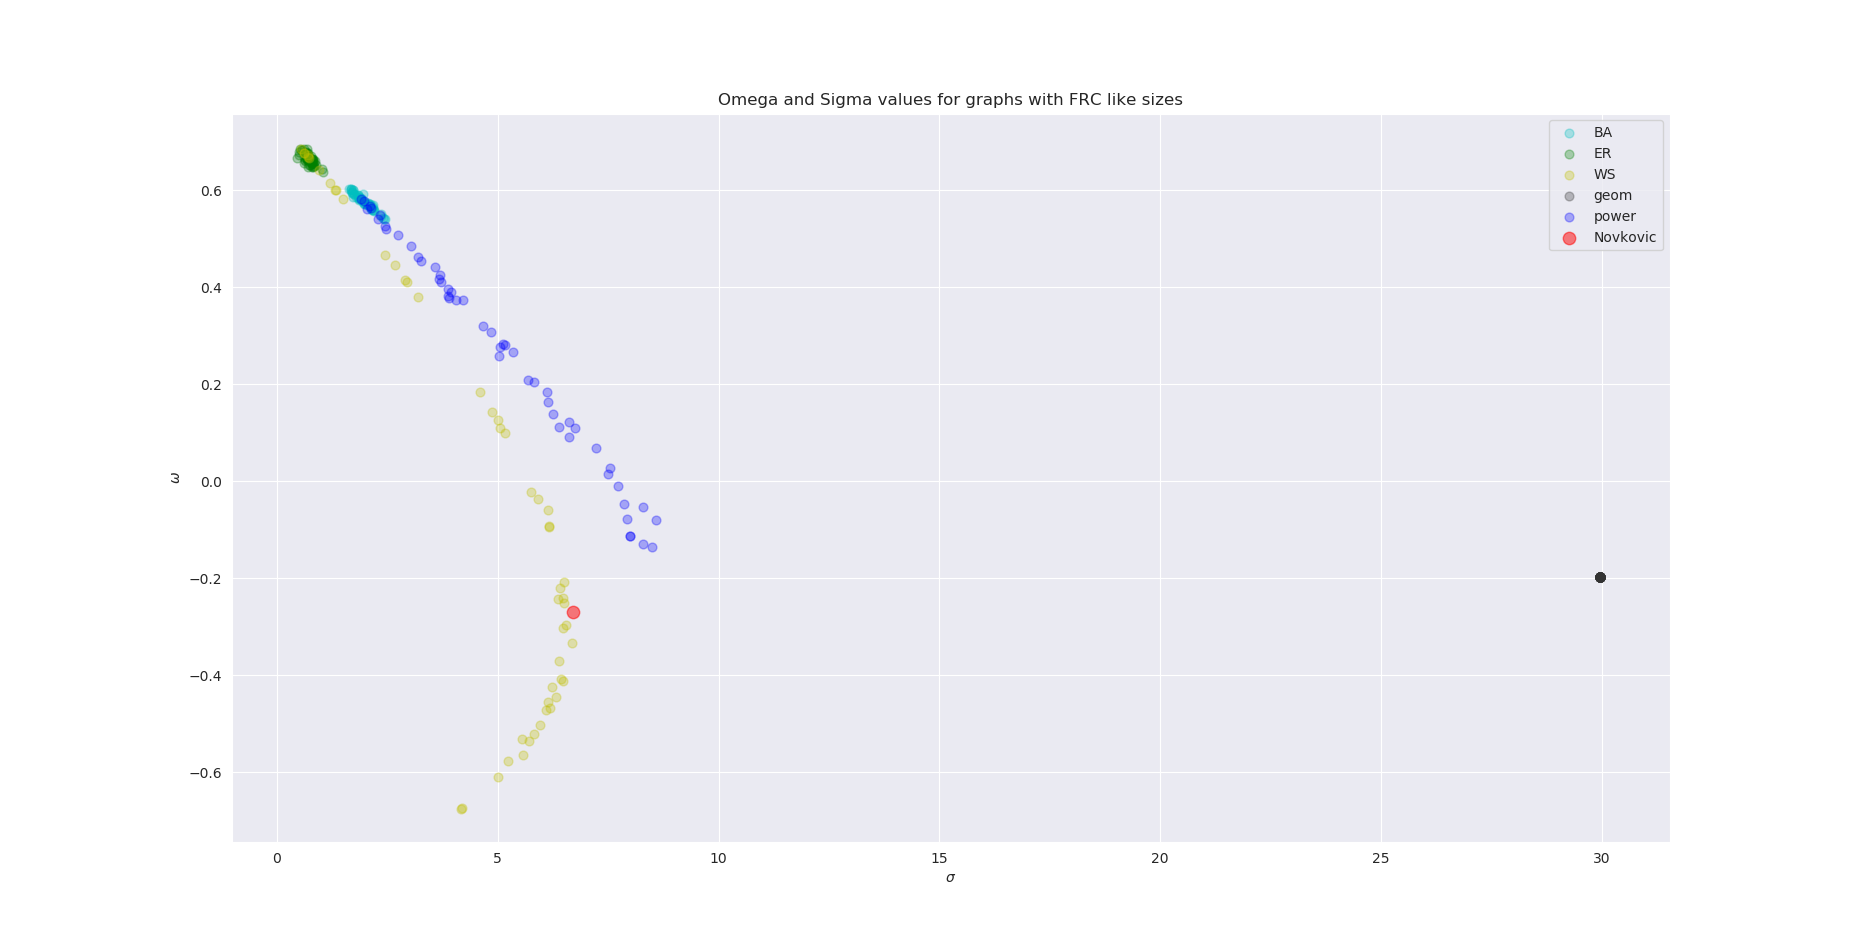
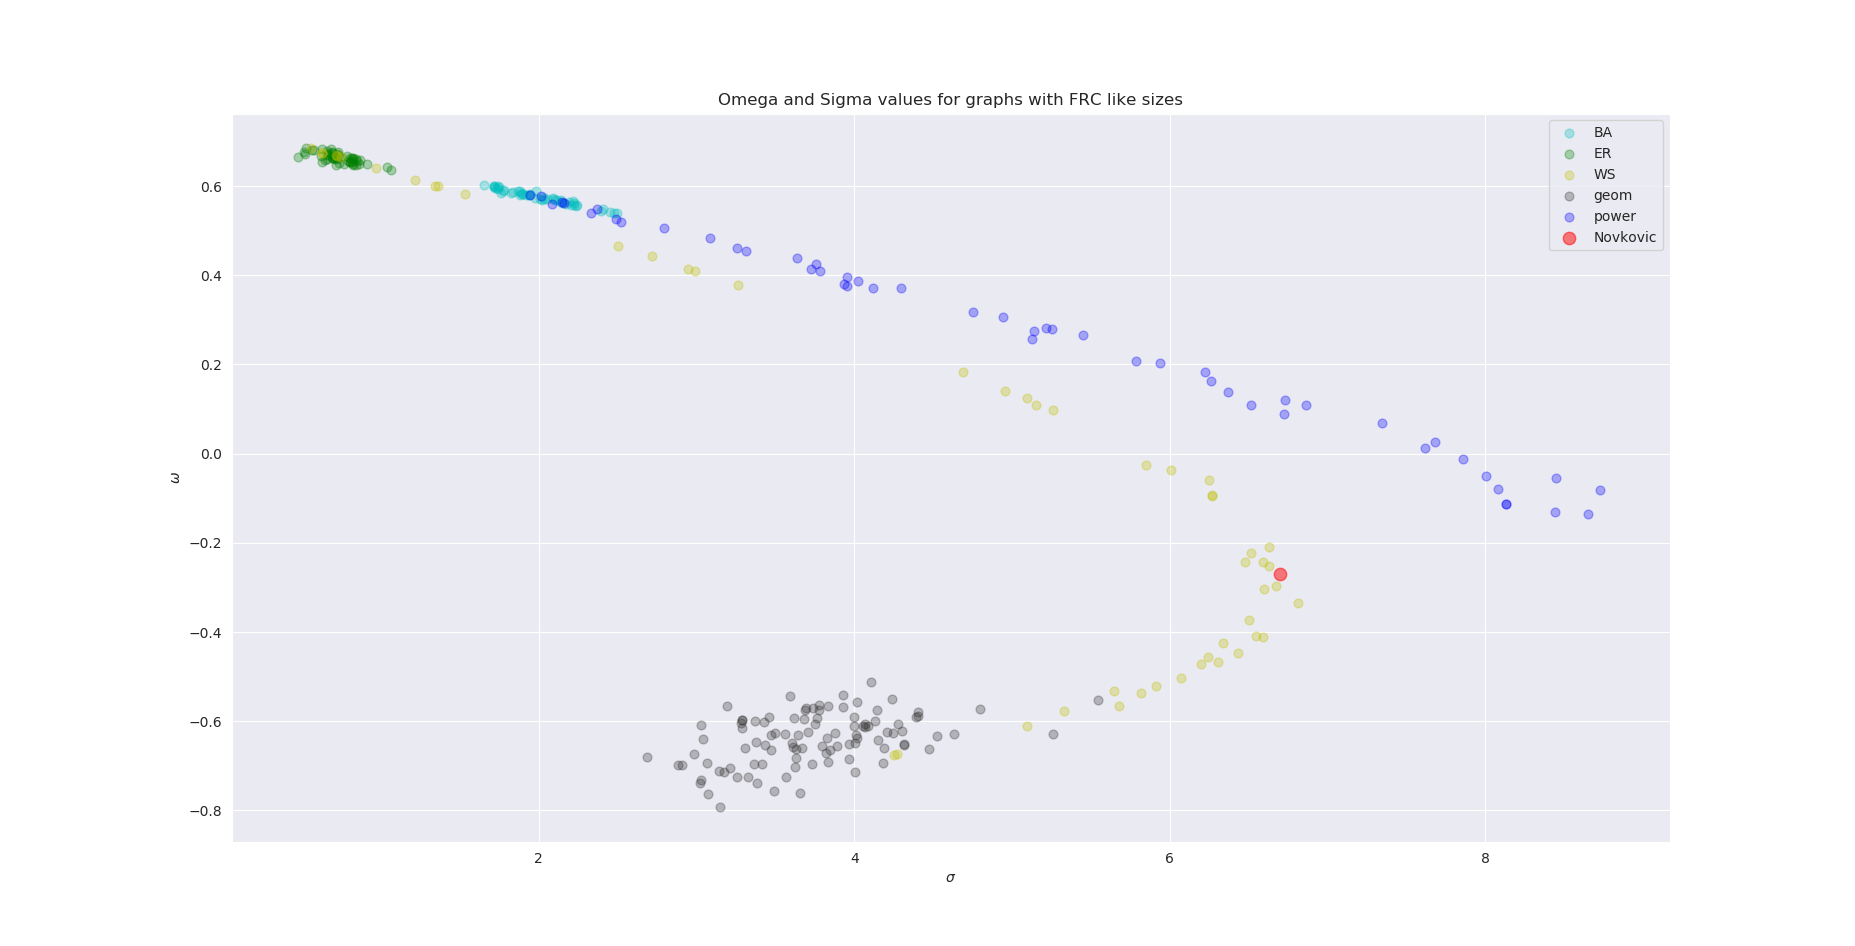
some fixes

diff --git a/Code/Compute_OW.py b/Code/Compute_OW.py
@@ -9,7 +9,8 @@ def extract_averages(path):
     data = pickle.load(open(path,'rb'))
     av_dict = {}
     for key,value in data.items():
-        av_dict[key] = [[np.average(x[1]) for x in value],[np.average(x[2]) for x in value]]
+        av_dict[key] = [[x[3] for x in value],[np.average(x[2]) for x in value]]
+        a#v_dict[key] = [[np.average(x[1]) for x in value],[np.average(x[2]) for x in value]]
     return av_dict
 
 def extract_specific_stats(path,stat_index1,stat_index2):

diff --git a/Code/analysis1_exp1.py b/Code/analysis1_exp1.py
@@ -102,7 +102,7 @@ def plot_frc_like():
 if __name__ == "__main__":
     #plot3d()
     #scatter_plot()
-    plot_per_type((0,100),(-1,1))
+    plot_per_type((4,10),(-.4,-.15))
     #plot_averages()
     plot_frc_like()
 
